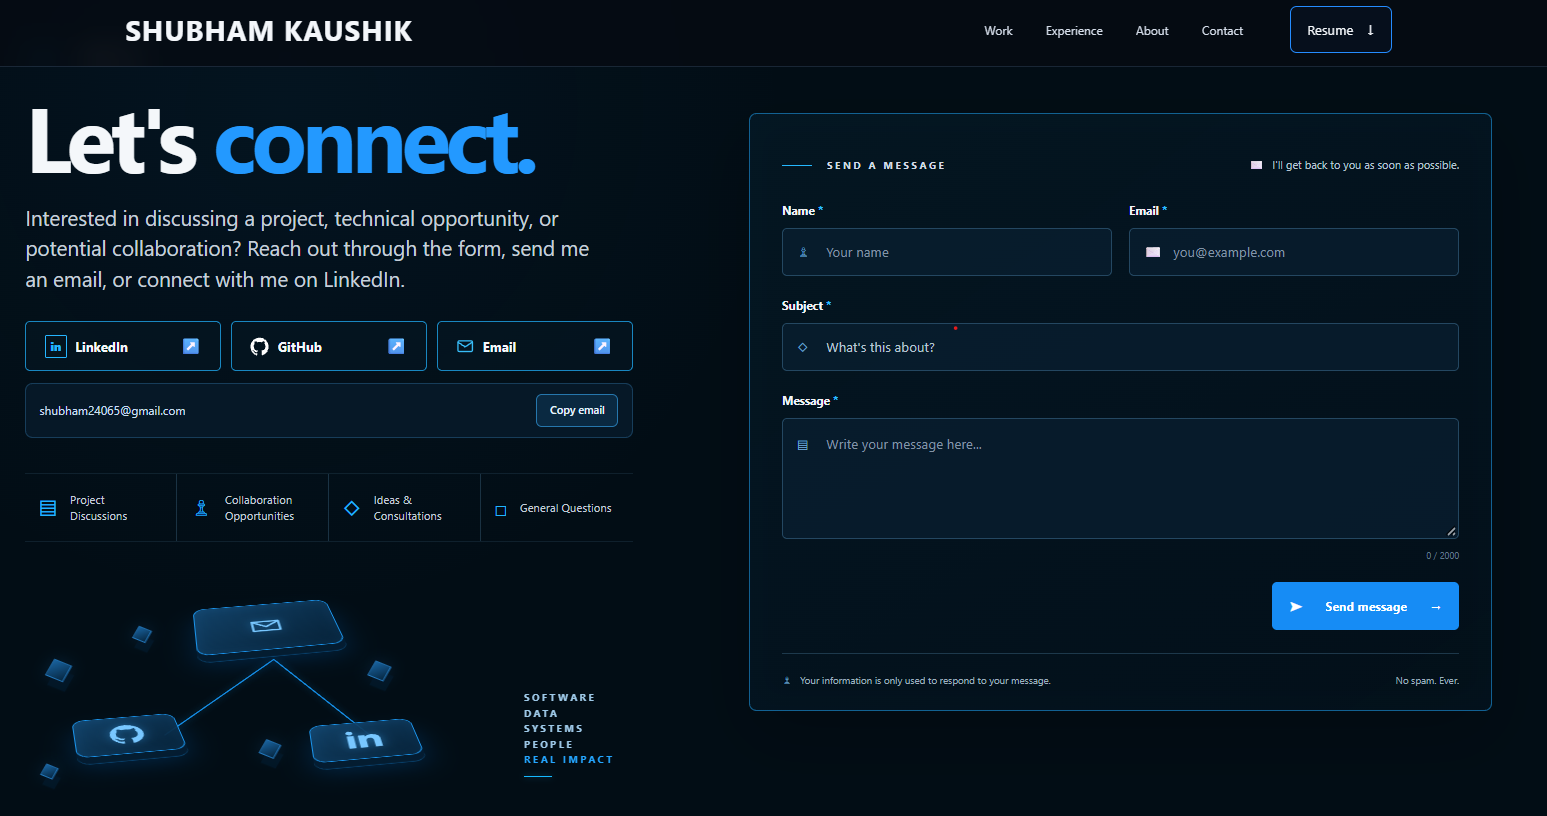
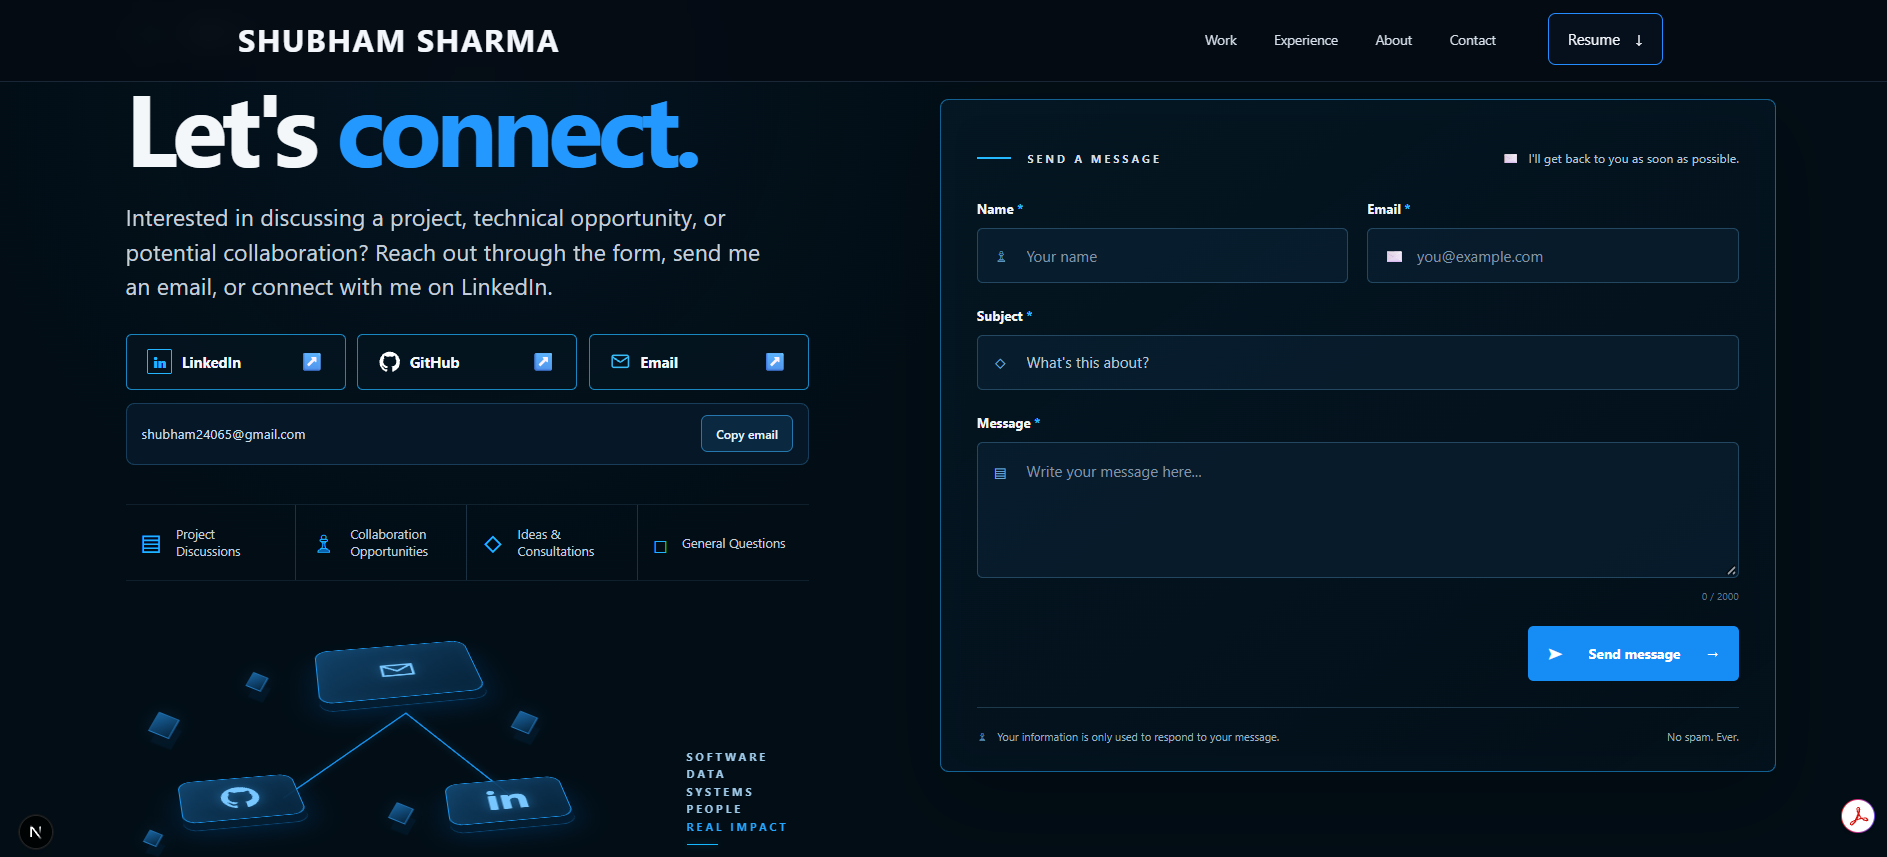
Update portfolio

diff --git a/app/layout.tsx b/app/layout.tsx
@@ -14,23 +14,23 @@ const geistMono = Geist_Mono({
   subsets: ["latin"],
 });
 
-const siteUrl = "https://shubhamkaushikportfolio.vercel.app";
+const siteUrl = "https://shubhamsharmaportfolio.vercel.app";
 
 export const metadata: Metadata = {
   metadataBase: new URL(siteUrl),
 
   title: {
-    default: "Shubham Kaushik | Software Developer",
-    template: "%s | Shubham Kaushik",
+    default: "Shubham Sharma | Software Developer",
+    template: "%s | Shubham Sharma",
   },
 
   description:
-    "Explore the portfolio of Shubham Kaushik, featuring software development, SQL, database systems, data analysis, and practical technology projects.",
+    "Explore the portfolio of Shubham Sharma, featuring software development, SQL, database systems, data analysis, and practical technology projects.",
 
-  applicationName: "Shubham Kaushik Portfolio",
+  applicationName: "Shubham Sharma Portfolio",
 
   keywords: [
-    "Shubham Kaushik",
+    "Shubham Sharma",
     "Software Developer",
     "SQL Developer",
     "Database Development",
@@ -41,8 +41,8 @@ export const metadata: Metadata = {
     "Portfolio",
   ],
 
-  authors: [{ name: "Shubham Kaushik" }],
-  creator: "Shubham Kaushik",
+  authors: [{ name: "Shubham Sharma" }],
+  creator: "Shubham Sharma",
 
   alternates: {
     canonical: "/",
@@ -52,15 +52,15 @@ export const metadata: Metadata = {
     type: "website",
     locale: "en_CA",
     url: siteUrl,
-    siteName: "Shubham Kaushik Portfolio",
-    title: "Shubham Kaushik | Software Developer",
+    siteName: "Shubham Sharma Portfolio",
+    title: "Shubham Sharma | Software Developer",
     description:
-      "Explore software development, SQL, database systems, data analysis, and practical technology projects by Shubham Kaushik.",
+      "Explore software development, SQL, database systems, data analysis, and practical technology projects by Shubham Sharma.",
   },
 
   twitter: {
     card: "summary_large_image",
-    title: "Shubham Kaushik | Software Developer",
+    title: "Shubham Sharma | Software Developer",
     description:
       "Software development, SQL, database systems, and practical technology projects.",
   },

diff --git a/components/sections/Contact.tsx b/components/sections/Contact.tsx
@@ -175,7 +175,7 @@ export default function Contact() {
             <a
               className="contact-link"
               href="mailto:shubham24065@gmail.com"
-              aria-label="Email Shubham Kaushik"
+              aria-label="Email Shubham Sharma"
             >
               <svg
                 viewBox="0 0 24 24"
@@ -494,7 +494,7 @@ export default function Contact() {
 
       <footer className="contact-footer">
         <div className="contact-footer-brand">
-          <strong>SHUBHAM KAUSHIK</strong>
+          <strong>SHUBHAM SHARMA</strong>
           <span>SOFTWARE · DATA · SYSTEMS · REAL IMPACT</span>
         </div>
 
@@ -531,8 +531,8 @@ export default function Contact() {
   </a>
   <a
     href="mailto:shubham24065@gmail.com"
-    aria-label="Email Shubham Kaushik"
-    title="Email Shubham Kaushik"
+    aria-label="Email Shubham Sharma"
+    title="Email Shubham Sharma"
   >
     <svg
       viewBox="0 0 24 24"
@@ -551,8 +551,8 @@ export default function Contact() {
 </div>
 
         <div className="contact-footer-meta">
-          <span>© 2026 Shubham Kaushik</span>
-          <span>Designed &amp; built by Shubham Kaushik</span>
+          <span>© 2026 Shubham Sharma</span>
+          <span>Designed &amp; built by Shubham Sharma</span>
         </div>
       </footer>
     </section>

diff --git a/app/projects/developer-portfolio/page.tsx b/app/projects/developer-portfolio/page.tsx
@@ -31,7 +31,7 @@ export default function DeveloperPortfolioPage() {
         "Git / GitHub",
       ]}
       github="https://github.com/Shubham24065/shubham-portfolio"
-      live="https://shubhamkaushikportfolio.vercel.app/"
+      live="https://shubhamsharmaportfolio.vercel.app/"
       sections={[
         {
           number: "01",
@@ -80,7 +80,7 @@ export default function DeveloperPortfolioPage() {
           title: "Metadata, Analytics & Discoverability",
           content:
             "Site-wide metadata defines a descriptive title, page description, canonical configuration, and Open Graph and Twitter metadata. The project also integrates Vercel Web Analytics through the root layout, allowing page views and aggregated visitor activity to be reviewed privately. Analytics is used to understand traffic and page interest, not to identify individual visitors.",
-          images: [
+            images: [
             { src: "/projects/developer-portfolio/portfolio-vercel-analytics.png", alt: "Northstar Retail SQL ticket grid within the portfolio case study", caption: "05 / Web Analytics — privacy-focused traffic monitoring and page-level engagement insights through Vercel." },
           ],
         },

diff --git a/components/sections/FeaturedWork.tsx b/components/sections/FeaturedWork.tsx
@@ -155,10 +155,10 @@ function PortfolioPreview() {
 
       <div className="portfolio-preview-header">
         <div className="portfolio-preview-brand">
-          <span className="portfolio-preview-brand-mark">SK</span>
+          <span className="portfolio-preview-brand-mark">SS</span>
 
           <div>
-            <strong>SHUBHAM KAUSHIK</strong>
+            <strong>SHUBHAM SHARMA</strong>
             <small>SOFTWARE · DATA · SYSTEMS</small>
           </div>
         </div>

diff --git a/app/projects/page.tsx b/app/projects/page.tsx
@@ -4,9 +4,9 @@ import Link from "next/link";
 import FeaturedWork from "@/components/sections/FeaturedWork";
 
 export const metadata: Metadata = {
-  title: "Projects | Shubham Kaushik",
+  title: "Projects | Shubham Sharma",
   description:
-    "Explore software development, database, and data projects by Shubham Kaushik.",
+    "Explore software development, database, and data projects by Shubham Sharma.",
 };
 
 export default function ProjectsPage() {

diff --git a/app/api/contact/route.ts b/app/api/contact/route.ts
@@ -152,7 +152,7 @@ export async function POST(request: Request) {
               color: #64748b;
             "
           >
-            Sent from shubhamkaushikportfolio.vercel.app
+            Sent from shubhamsharmaportfolio.vercel.app
           </p>
         </div>
       `,

diff --git a/components/layout/Navbar.tsx b/components/layout/Navbar.tsx
@@ -12,7 +12,7 @@ export default function Navbar() {
     <header className="site-header">
       <nav className="navbar">
         <Link href="/" className="brand">
-          SHUBHAM KAUSHIK
+          SHUBHAM SHARMA
         </Link>
 
         <div className="navbar-right">
